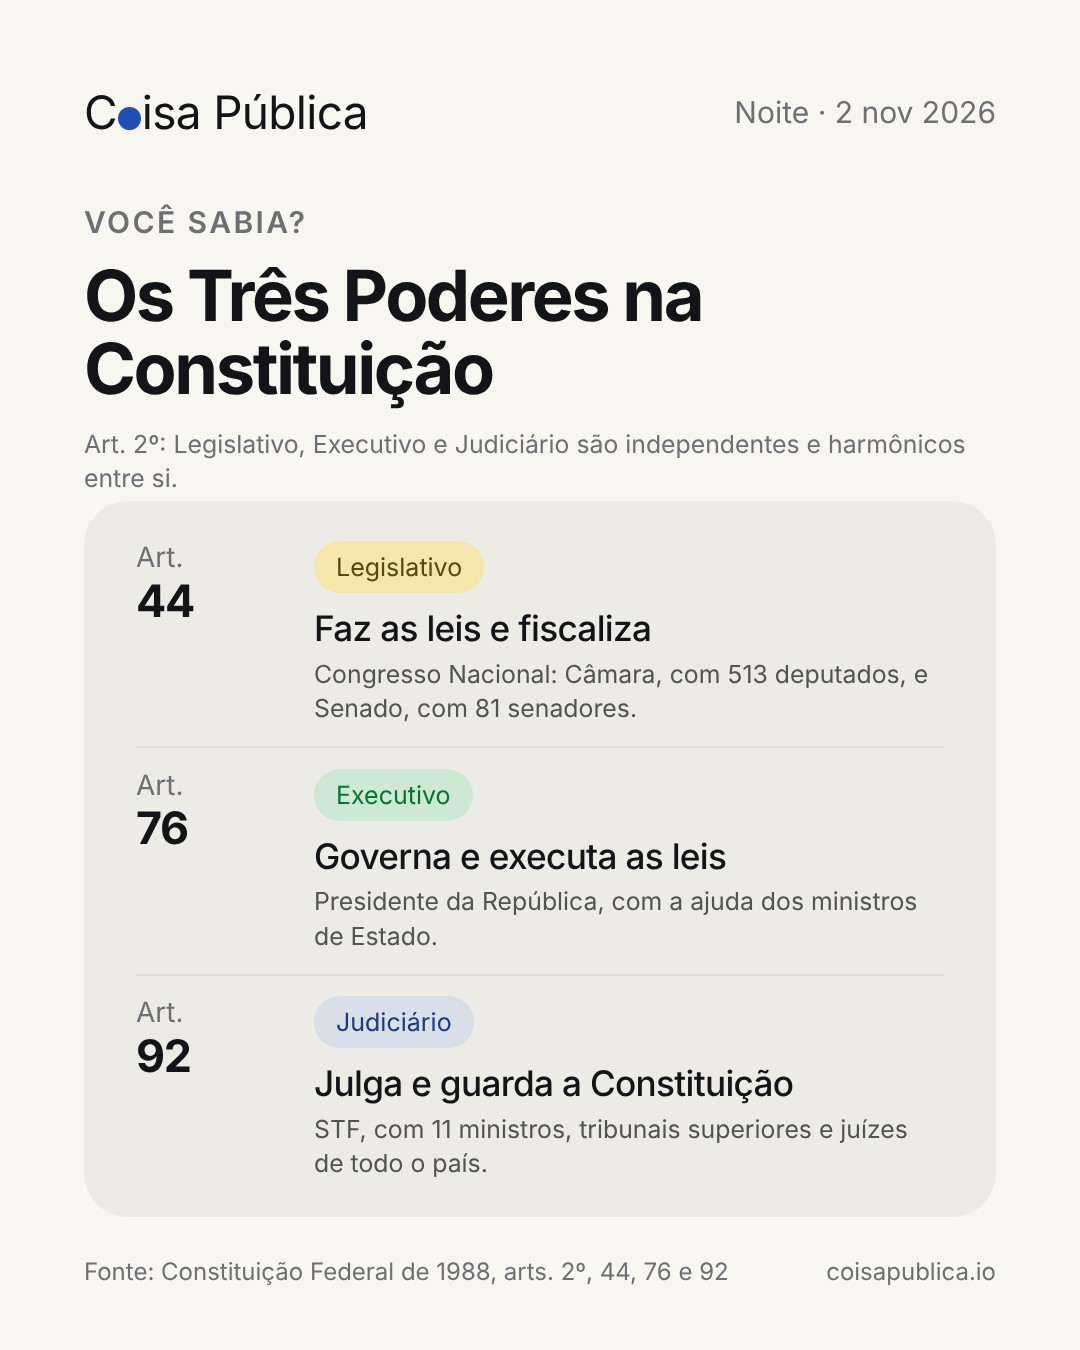
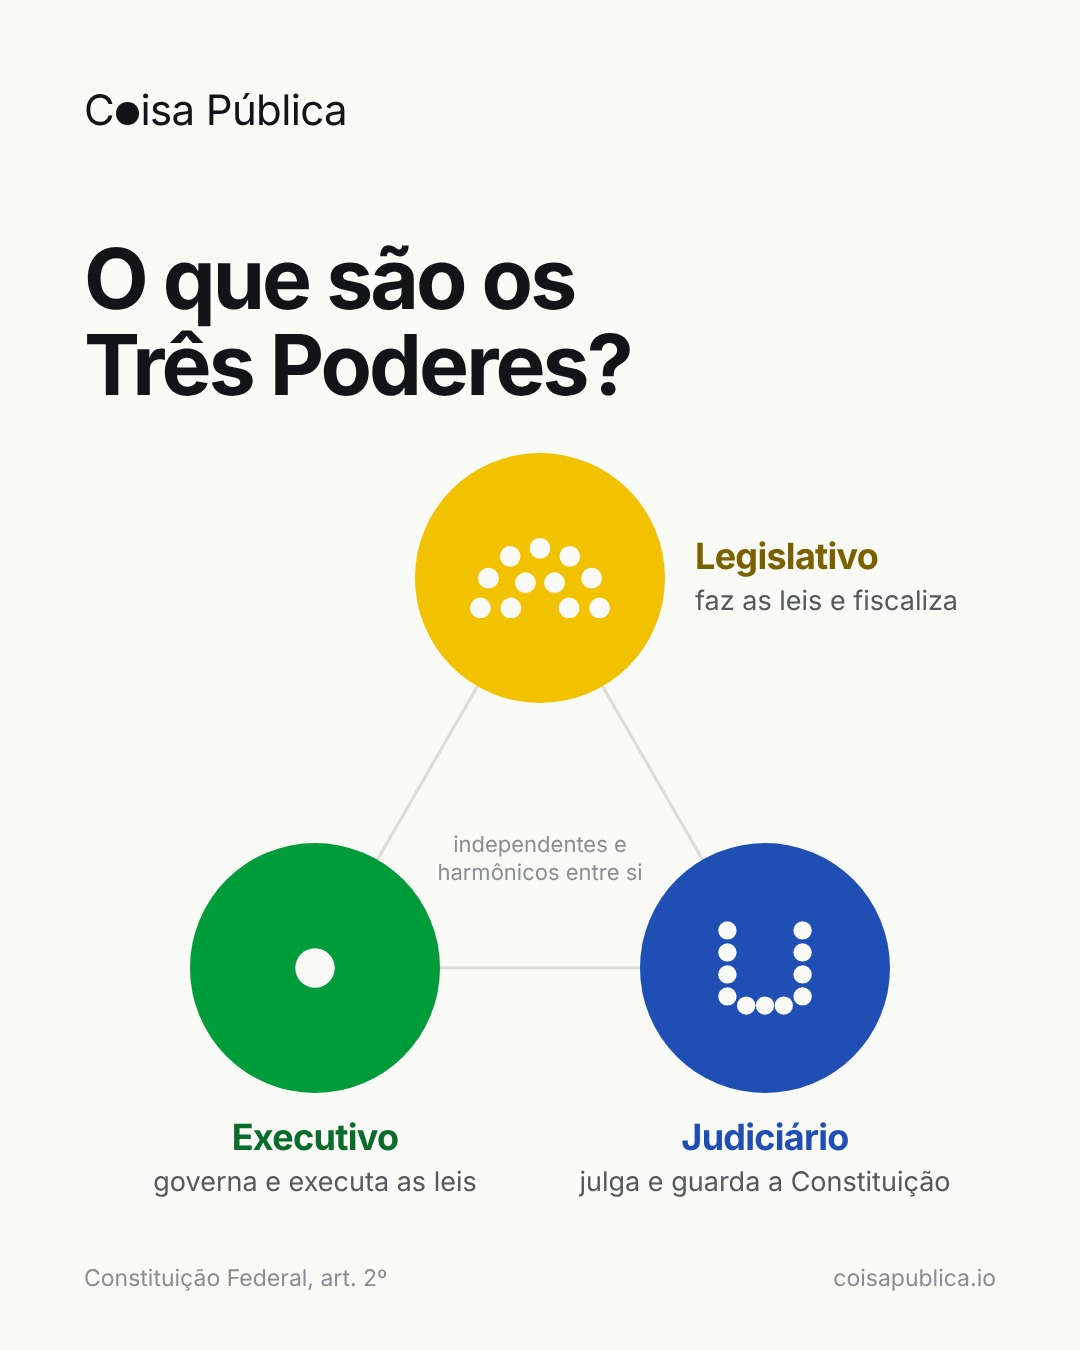
Post 2026-11-02-noite: imagem com os três círculos dos poderes
Claude-Session: https://claude.ai/code/session_01LhzKyHvExJb3TPhqkvRYrY

diff --git a/scripts/posts/especiais/tres-poderes.js b/scripts/posts/especiais/tres-poderes.js
@@ -1,0 +1,46 @@
+/* Imagem especial "O que são os Três Poderes?" (1080x1350): os três círculos dos poderes no desenho da Praça dos Três Poderes,
+   ligados por um triângulo, com o símbolo de cada poder e o que ele faz.
+   Uso: node scripts/posts/especiais/tres-poderes.js posts/<id>   (grava posts/<id>/imagem.jpg) */
+const {chromium} = require('playwright');
+const fs = require('fs'), path = require('path');
+const src = fs.readFileSync(path.join(__dirname, '..', 'apresentacao.js'), 'utf8');
+const glyph = k => (src.match(new RegExp(`\\n  ${k}:'(<svg[^']*)'`)) || [])[1] || '';
+const G = {exe: glyph('exe').replace(/width="\d+"/, 'width="64"'), leg: glyph('leg').replace(/width="\d+"/, 'width="140"'), jud: glyph('jud').replace(/width="\d+"/, 'width="96"')};
+const R = 125, side = 450, cx = 540, topY = 578, h = side * Math.sqrt(3) / 2;
+const P = {leg:[cx, topY], exe:[cx - side/2, topY + h], jud:[cx + side/2, topY + h]};
+const C = {exe:'#009C3B', leg:'#F2C200', jud:'#1F4FB5'};
+const INK = {exe:'#0B6B2C', leg:'#7A6100', jud:'#1F4FB5'};
+const T = {leg:['Legislativo','faz as leis e fiscaliza'], exe:['Executivo','governa e executa as leis'], jud:['Judiciário','julga e guarda a Constituição']};
+// the top circle has its label at its right (so nothing crosses the triangle); the bottom two have theirs below
+const circle = k => `<div class="c" style="left:${P[k][0]-R}px;top:${P[k][1]-R}px;background:${C[k]}">${G[k]}</div>
+  ${k==='leg' ? `<div class="lab side" style="left:${P[k][0]+R+30}px;top:${P[k][1]-44}px">` : `<div class="lab" style="left:${P[k][0]-200}px;top:${P[k][1]+R+22}px">`}<b style="color:${INK[k]}">${T[k][0]}</b><span>${T[k][1]}</span></div>`;
+const html = `<!doctype html><html><head><meta charset="utf-8"><style>
+*{box-sizing:border-box}html,body{margin:0}
+body{width:1080px;height:1350px;background:#FAFAF7;color:#121417;font-family:"Helvetica Neue",Helvetica,Arial,sans-serif;position:relative;overflow:hidden}
+.top{position:absolute;left:84px;right:84px;top:84px;display:flex;justify-content:space-between;align-items:center;font-size:28px;color:#6E6F73}
+.logo{font-size:42px;color:#121417;letter-spacing:-.015em}.logo i{display:inline-block;width:.54em;height:.54em;border-radius:50%;background:#121417;margin:0 .045em}
+.eye{position:absolute;left:84px;top:196px;margin:0;font-size:28px;letter-spacing:.08em;text-transform:uppercase;color:#6E6F73;font-weight:600}
+h1{position:absolute;left:84px;right:84px;top:236px;margin:0;font-size:84px;line-height:1.02;letter-spacing:-.035em;font-weight:700}
+svg.tri{position:absolute;left:0;top:0}
+.c{position:absolute;width:${2*R}px;height:${2*R}px;border-radius:50%;display:grid;place-items:center}
+.c svg{fill:#FAFAF7;display:block}
+.lab{position:absolute;width:400px;text-align:center;display:flex;flex-direction:column;gap:6px}
+.lab.side{width:300px;text-align:left}
+.lab b{font-size:36px;letter-spacing:-.02em;font-weight:700}.lab span{font-size:27px;color:#55585D;line-height:1.25}
+.mid{position:absolute;left:${cx-120}px;top:${topY + h*2/3 - 30}px;width:240px;text-align:center;font-size:22px;line-height:1.3;color:#8A8D91}
+.foot{position:absolute;left:84px;right:84px;bottom:58px;display:flex;justify-content:space-between;font-size:23px;color:#8A8D91}
+</style></head><body>
+<div class="top"><span class="logo">C<i></i>isa Pública</span><span></span></div>
+<h1>O que são os<br>Três Poderes?</h1>
+<svg class="tri" width="1080" height="1350"><polygon points="${P.leg} ${P.exe} ${P.jud}" fill="none" stroke="#DCDDD8" stroke-width="3"/></svg>
+${circle('leg')}${circle('exe')}${circle('jud')}
+<p class="mid">independentes e<br>harmônicos entre si</p>
+<div class="foot"><span>Constituição Federal, art. 2º</span><span>coisapublica.io</span></div>
+</body></html>`;
+(async ()=>{
+  const dir = process.argv[2]; if (!dir) { console.error('uso: node tres-poderes.js posts/<id>'); process.exit(1); }
+  const b = await chromium.launch(), p = await b.newPage({viewport:{width:1080, height:1350}});
+  await p.setContent(html);
+  await p.screenshot({path: path.join(dir, 'imagem.jpg'), type:'jpeg', quality:92});
+  await b.close(); console.log('ok', path.join(dir, 'imagem.jpg'));
+})();
